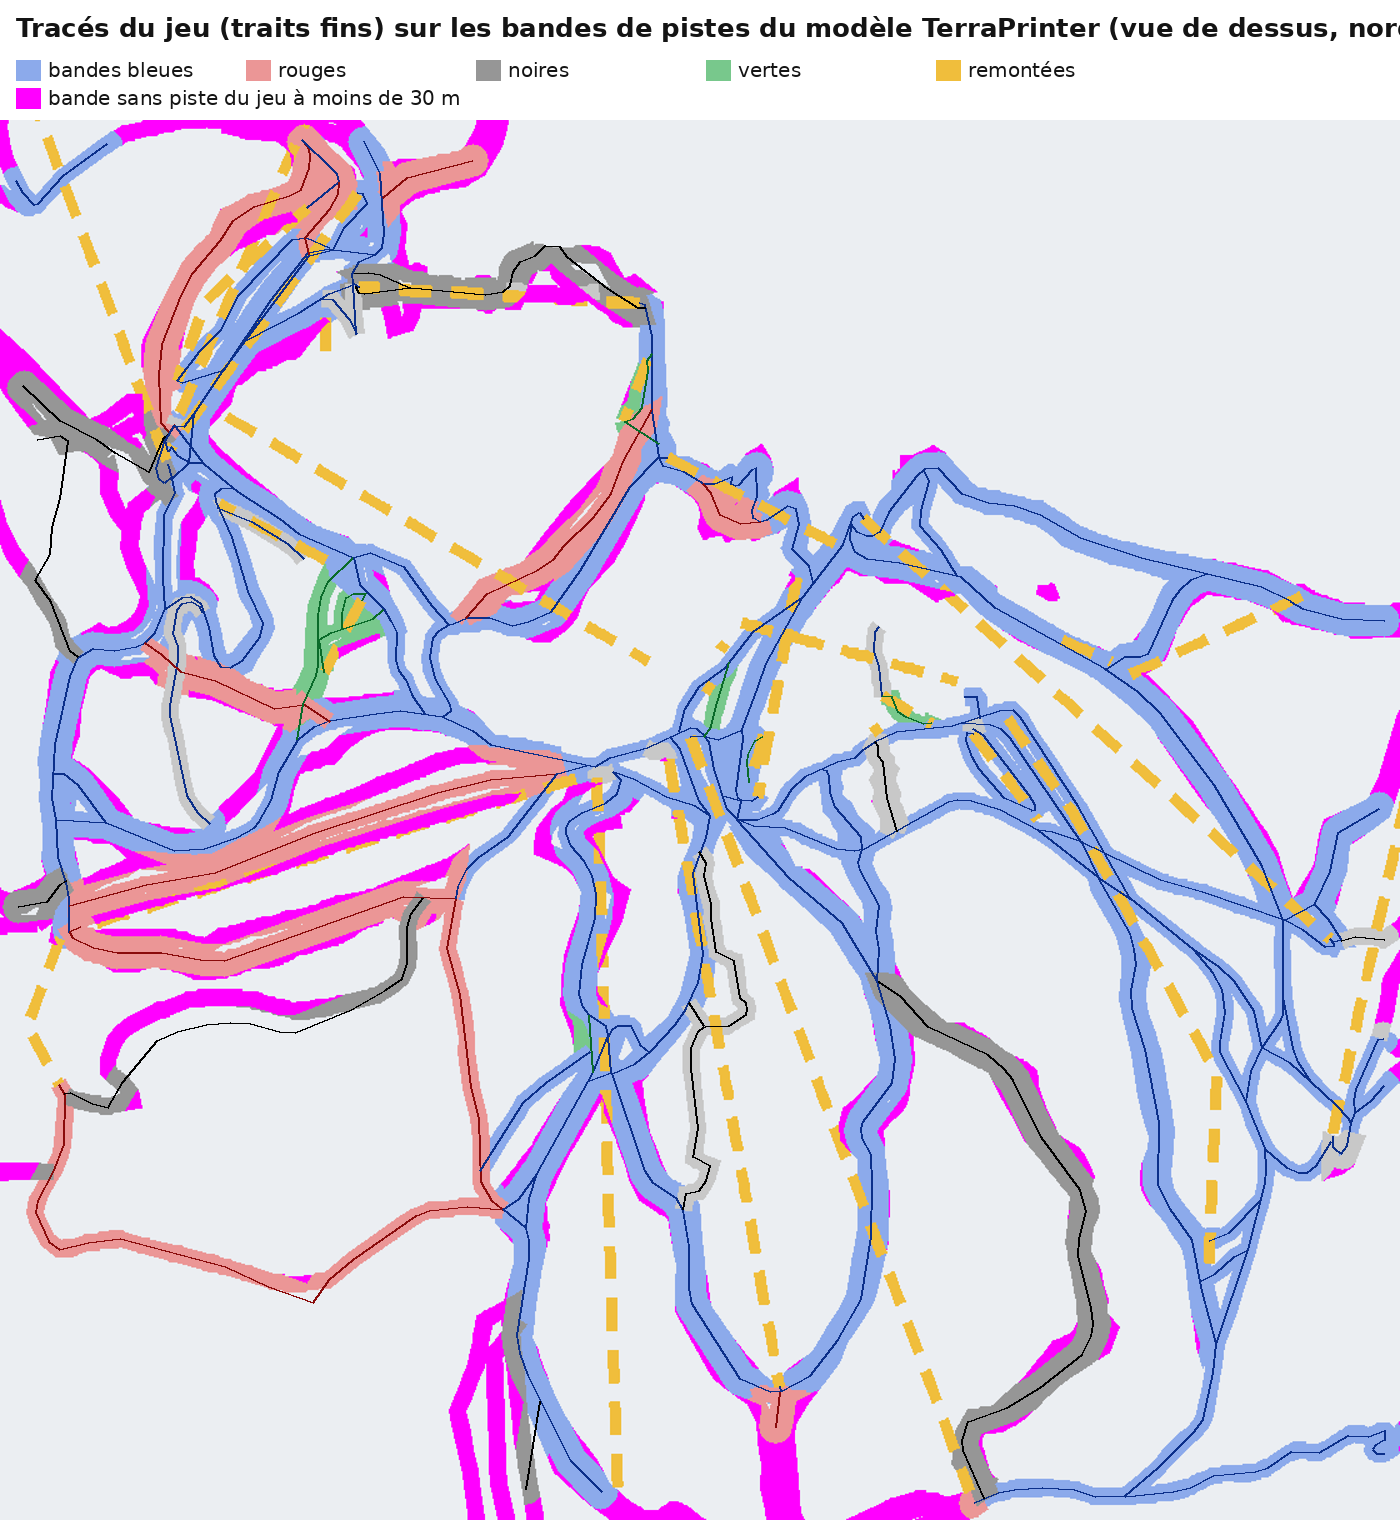
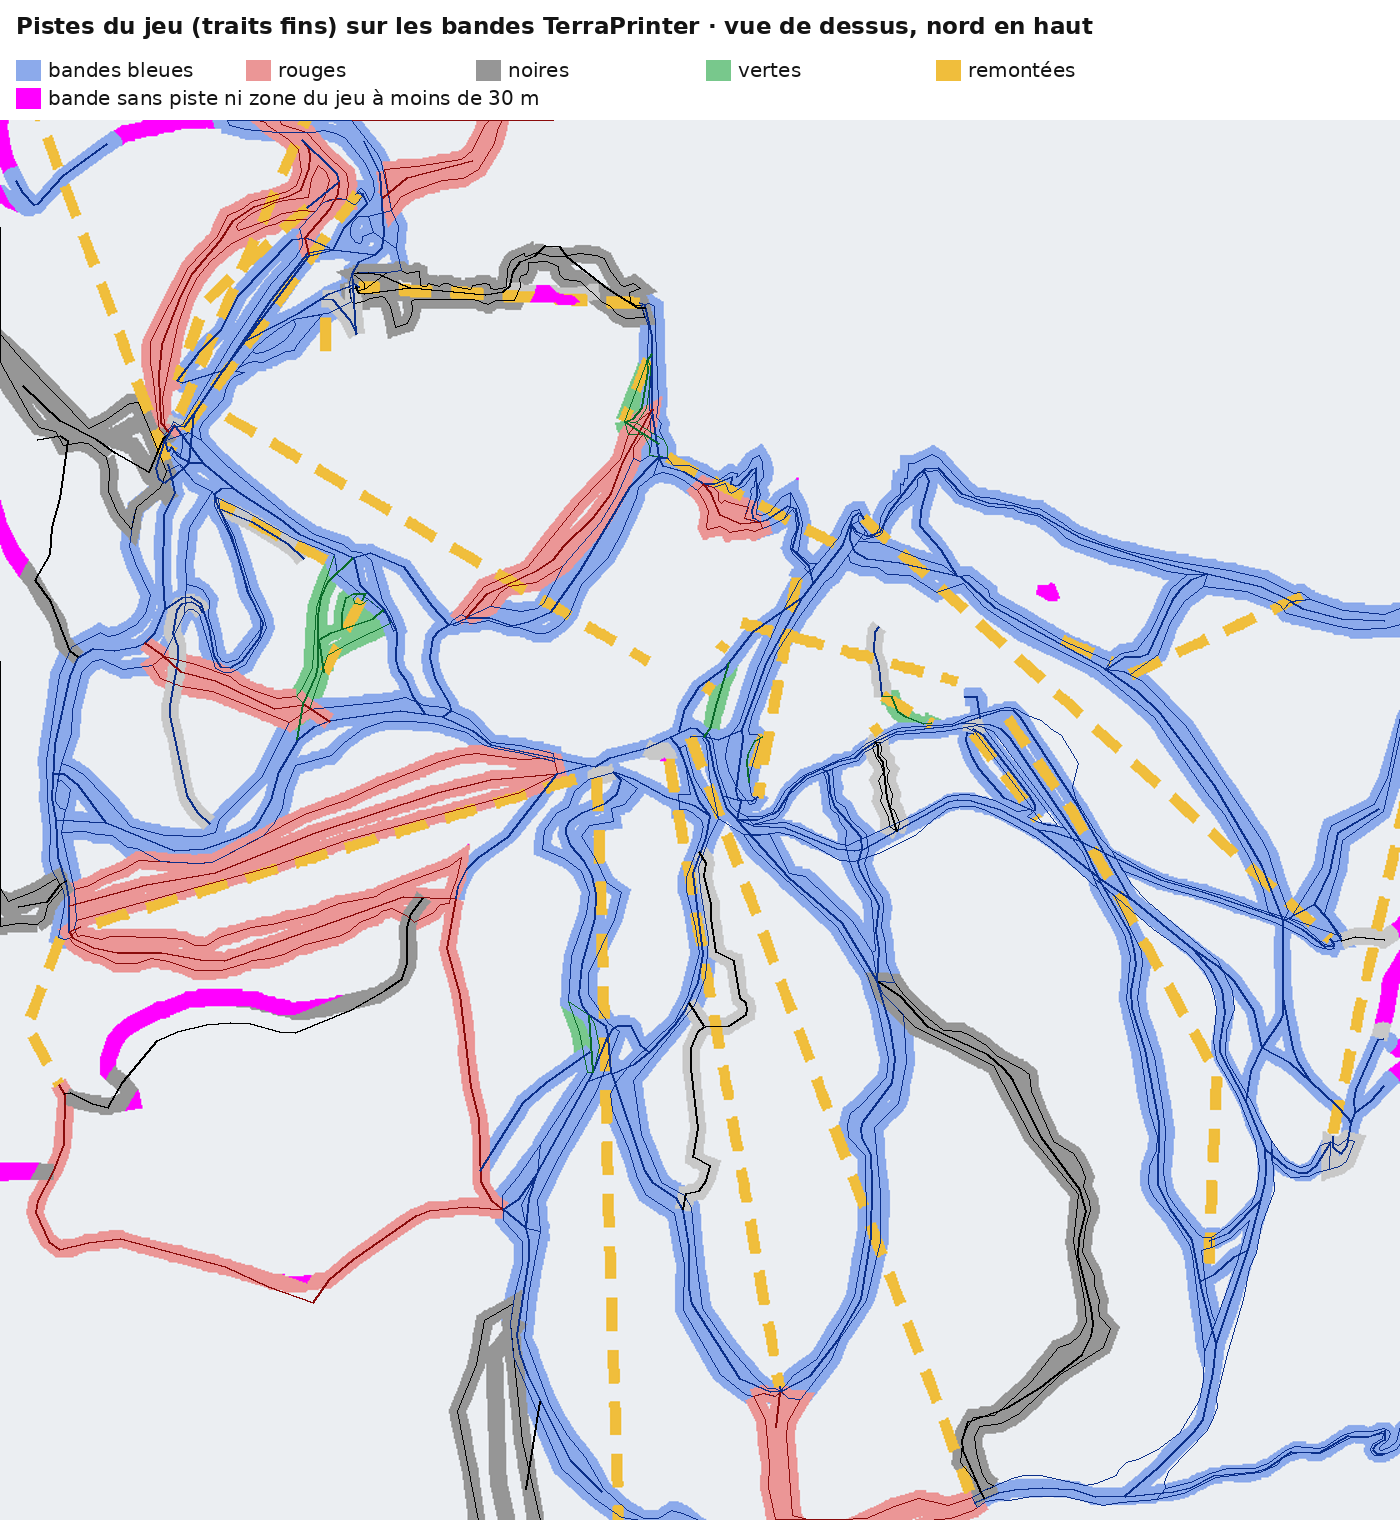
Review: runs and piste areas over the TerraPrinter ribbons (2 % of the ribbons left without a run or area)
Claude-Session: https://claude.ai/code/session_01N6t3NGQa5phkgRU2KVMknn

diff --git a/val-des-sapins/README.md b/val-des-sapins/README.md
@@ -187,7 +187,7 @@ L'archive TerraPrinter (`*-colours-stl.zip`) contient une bande en relief par co
   - toutes les pistes du secteur sont gardées en entier : 94 tronçons, 43,4 km (Rochette, Verdons, Petite Rochette, Les Arolles, Mira et Mont Saint-Sauveur complètes, etc.) ;
   - les 49 zones de pistes qui touchent le secteur sont damées sur leur vrai contour (pas d'arbres, neige damée, rattachées à la piste du même nom) et dessinées sur le plan ;
   - sur le plan et dans la liste, seules les pistes nommées sont étiquetées (52). Les tronçons sans nom et les tronçons secondaires gardent leur nom au HUD quand on skie dessus.
-- Résultat : la surface des bandes damée dans le jeu passe de 54 % à 77 %, et la part sans aucune piste du jeu de 33 % à 15 %. Le reste tient surtout à la largeur : 35 m pour les bandes, 24 à 30 m pour les pistes du jeu. Seulement 2 % de la surface damée tombe hors d'une bande.
+- Résultat : la surface des bandes damée dans le jeu passe de 54 % à 77 %, et la part sans aucune piste ni zone du jeu à moins de 30 m de 33 % à 2 %. Le reste tient surtout à la largeur : 35 m pour les bandes, 24 à 30 m pour les pistes du jeu. Seulement 2 % de la surface damée tombe hors d'une bande.
 
 **Tests** :
 - 116 tronçons sur 118 descendus par le robot. Les Coqs sort de la carte au bord du secteur, et Chevrette bloque à quelques mètres de son arrivée ;
